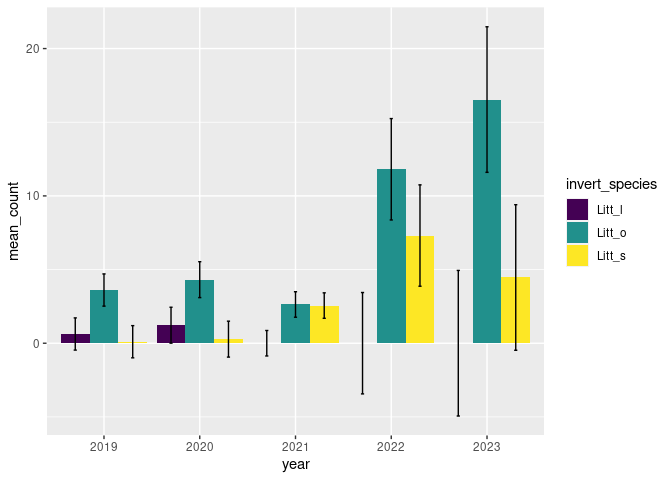
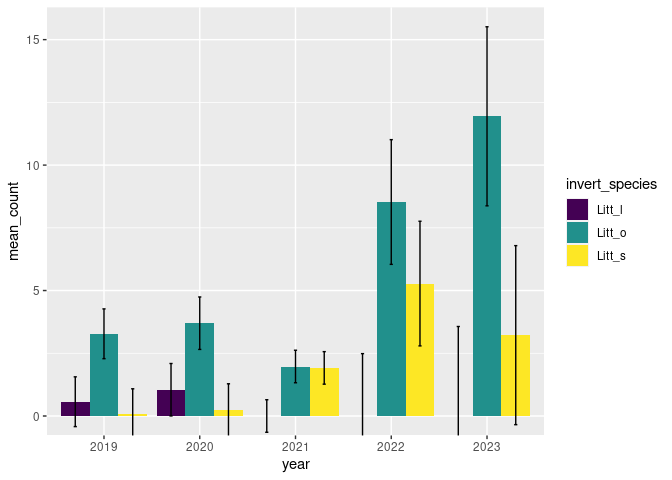
Expand all_inverts_mdr to include zeroes

diff --git a/extra/tidymdrdata.md b/extra/tidymdrdata.md
@@ -822,29 +822,31 @@ distinct(all_inverts_mdr, invert_species) %>%
     ## # ℹ 18 more rows
 
 ``` r
+expanded_inverts_mdr <- expand(all_inverts_mdr, year, tide_ht, quadrat_m, invert_species) %>%
+  left_join(all_inverts_mdr, by = join_by(year, tide_ht, quadrat_m, invert_species)) %>%
+  mutate(count = replace_na(count, 0))
+```
+
+``` r
 # total number per quadrat, unfaceted
 
-all_inverts_mdr %>%
+expanded_inverts_mdr %>%
   filter(invert_species %in% c("Litt_l",
                                "Litt_o",
-                               "Litt_s",
-                               "Litt_spp"),
+                               "Litt_s"),
          !(year == 2017)) %>%
   ggplot(mapping = aes(year, count, fill = invert_species)) +
     geom_col(position = "dodge") +
   scale_fill_viridis_d()
 ```
 
-    ## Warning: Removed 62 rows containing missing values (`geom_col()`).
-
 ![](tidymdrdata_files/figure-gfm/total-snails-per-quadrat-unfaceted-1.png)<!-- -->
 
 ``` r
-all_inverts_mdr %>%
+expanded_inverts_mdr %>%
   filter(invert_species %in% c("Litt_l",
                                "Litt_o",
-                               "Litt_s",
-                               "Litt_spp"),
+                               "Litt_s"),
          !(year == 2017),
          !is.na(tide_ht)) %>%
   ggplot(mapping = aes(year, count, fill = invert_species)) +
@@ -853,19 +855,19 @@ all_inverts_mdr %>%
   facet_wrap("tide_ht", nrow = 1)
 ```
 
-    ## Warning: Removed 59 rows containing missing values (`geom_col()`).
-
 ![](tidymdrdata_files/figure-gfm/total-snails-per-quadrat-faceted-1.png)<!-- -->
 
 ``` r
-all_inverts_mdr %>%
+# omitted 2017 and 2018 for all snail graphs (2017 includes L_spp, so not useful for these graphs, and 2018 is too messy)
+```
+
+``` r
+expanded_inverts_mdr %>%
   filter(invert_species %in% c("Litt_l",
                                "Litt_o",
-                               "Litt_s",
-                               "Litt_spp"),
+                               "Litt_s"),
          !(year == 2017),
          !is.na(tide_ht)) %>%
-  mutate(count = replace_na(count, 0)) %>%
   group_by(year, invert_species) %>%
   summarise(mean_count = mean(count)) %>%
   mutate(se = sd(mean_count, na.rm=TRUE)/sqrt(length(mean_count))) %>%
@@ -873,7 +875,8 @@ all_inverts_mdr %>%
     geom_col(position = "dodge") +
   geom_errorbar(aes(ymin = mean_count - se, ymax = mean_count + se),
                 width=.1, position = position_dodge(.9)) +
-  scale_fill_viridis_d()
+  scale_fill_viridis_d() +
+  coord_cartesian(ylim = c(0, NA))
 ```
 
     ## `summarise()` has grouped output by 'year'. You can override using the
@@ -882,22 +885,13 @@ all_inverts_mdr %>%
 ![](tidymdrdata_files/figure-gfm/mean-snails-per-quadrat-unfaceted-1.png)<!-- -->
 
 ``` r
-  # ylim(0, NA)
-
-# if I set the ylim to 0 the vertical parts of the error bars get confused
-
-# PROBLEM: may not have 0s for every quadrat for every year (there might just not be a line for that species if it wasn't there, which will mess up the mean and standard error calculations)
-```
-
-``` r
-all_inverts_mdr %>%
+expanded_inverts_mdr %>%
   filter(invert_species %in% c("Litt_l",
                                "Litt_o",
                                "Litt_s",
                                "Litt_spp"),
          !(year == 2017),
          !is.na(tide_ht)) %>%
-  mutate(count = replace_na(count, 0)) %>%
   group_by(year, tide_ht, invert_species) %>%
   summarise(mean_count = mean(count)) %>%
   mutate(se = sd(mean_count, na.rm=TRUE)/sqrt(length(mean_count))) %>%
@@ -906,7 +900,8 @@ all_inverts_mdr %>%
   geom_errorbar(aes(ymin = mean_count - se, ymax = mean_count + se),
                 width=.1, position = position_dodge(.9)) +
   scale_fill_viridis_d() +
-  facet_wrap("tide_ht", nrow = 1)
+  facet_wrap("tide_ht", nrow = 1) +
+  coord_cartesian(ylim = c(0, NA))
 ```
 
     ## `summarise()` has grouped output by 'year', 'tide_ht'. You can override using
@@ -922,11 +917,10 @@ all_inverts_mdr %>%
 # reorder this so colors of Littorina are the same and L. vincta is last (is there a way to do this without making it an ordered factor?)
 # how many years has L. vincta been on the survey? would they have counted it? ask Tanya
 
-all_inverts_mdr %>%
+expanded_inverts_mdr %>%
   filter(invert_species %in% c("Litt_l",
                                "Litt_o",
                                "Litt_s",
-                               "Litt_spp",
                                "Lacu_v"),
          !(year == 2017),
          !is.na(tide_ht)) %>%
